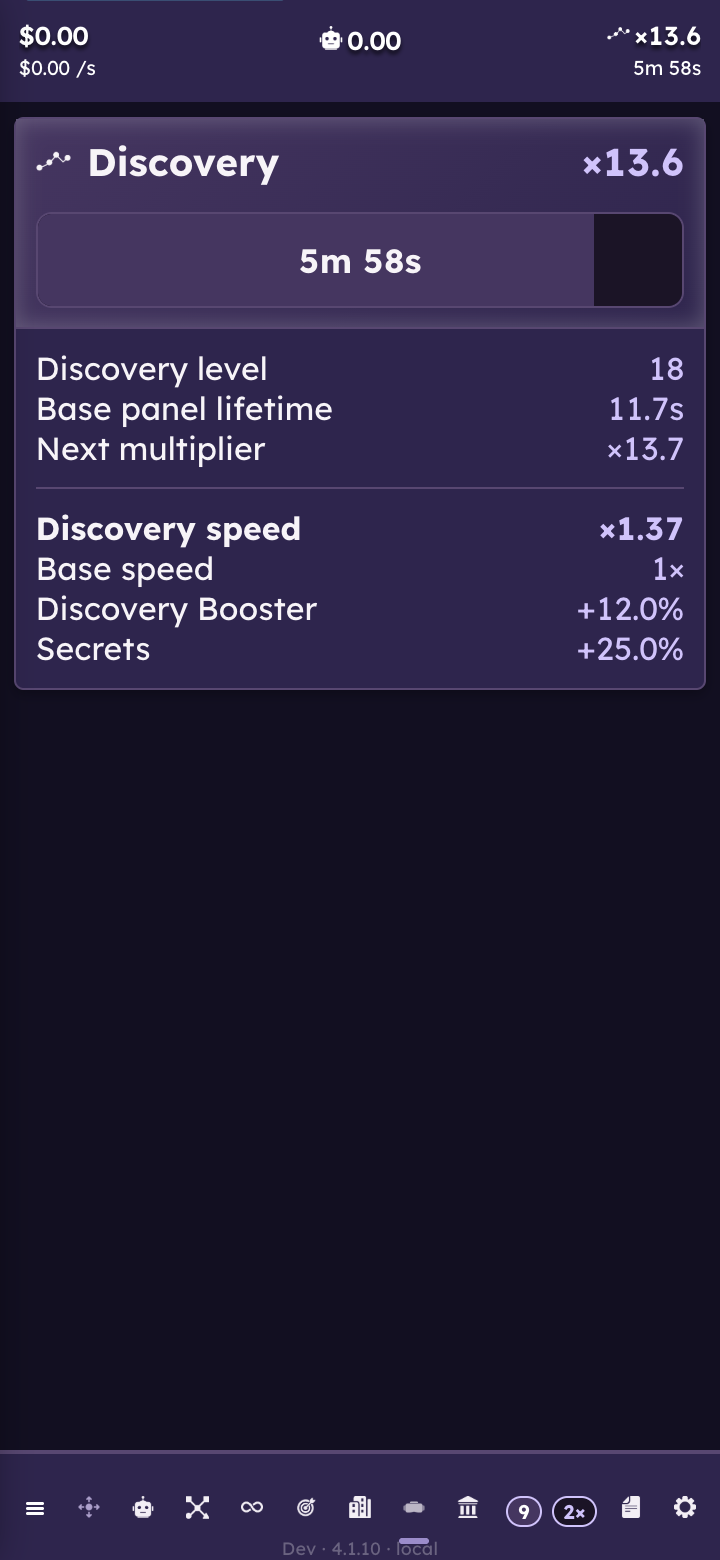
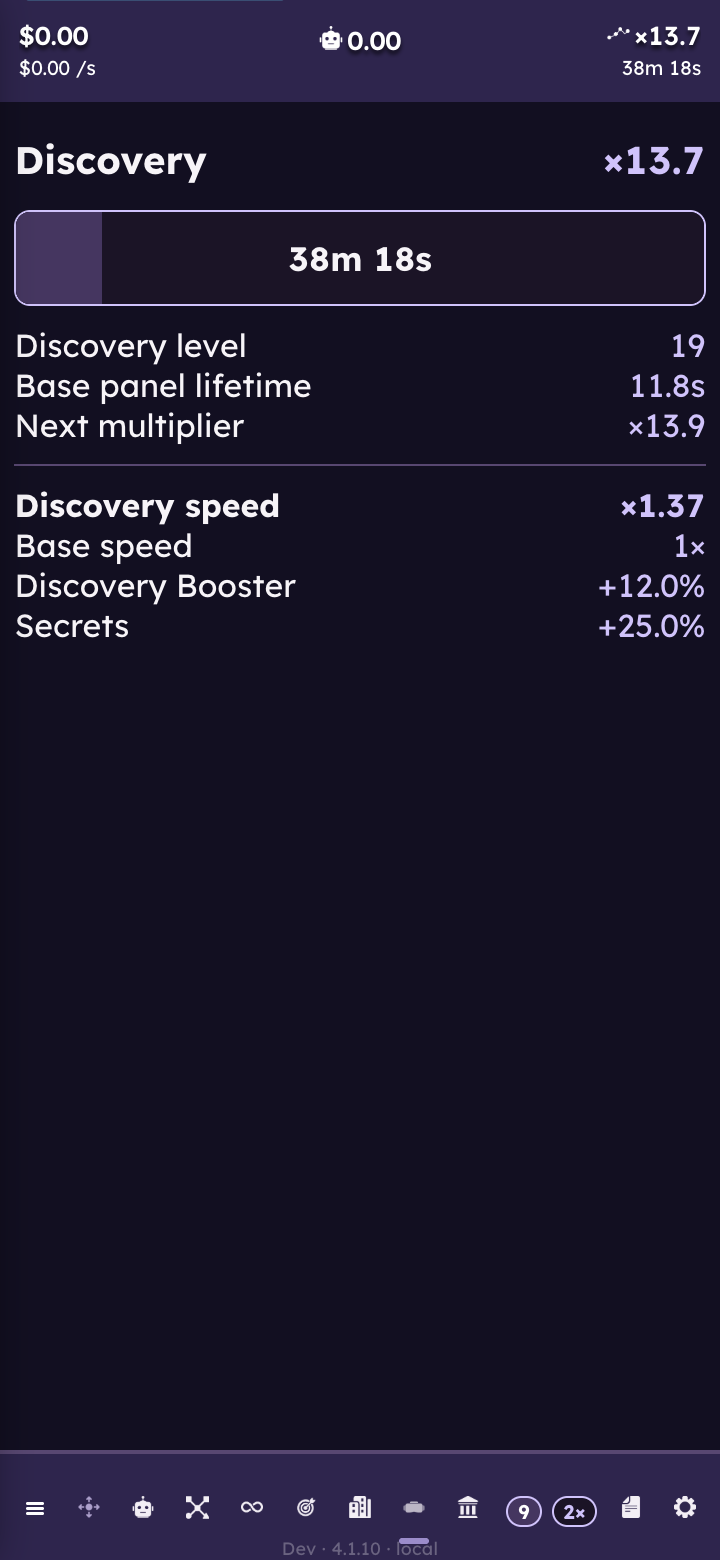
Simplify Discovery and Avocato presentation

diff --git a/src/ui/gameplay/quantum/AvocatoSurface.tsx b/src/ui/gameplay/quantum/AvocatoSurface.tsx
@@ -72,40 +72,45 @@ export function AvocatoSurface({ locale, unlocked, resources, spendable, derived
       </header>
 
       <div className="avocato-surface__content">
+        {unlocked ? (
+          <>
+            <dl className="avocato-total">
+              <div>
+                <dt>{intl.formatMessage(discovery.unlocked ? discoveryMessages.avocatoProduction : messages.totalBoost)}</dt>
+                <dd>{intl.formatMessage(messages.multiplier, { value: formatGameNumber(locale, derived.total) })}</dd>
+              </div>
+              {discovery.unlocked && <div>
+                <dt>{intl.formatMessage(discoveryMessages.speedSources)}</dt>
+                <dd>+{formatGameNumber(locale, discoveryGrowingBonus(derived.total - 1) * 100)}%</dd>
+              </div>}
+            </dl>
+
+            <div className="avocato-feed-grid">
+              {previews.feeds.map((preview) => (
+                <AvocatoFeedCard
+                  key={preview.source}
+                  locale={locale}
+                  preview={preview}
+                  invested={investedValue(resources, preview.source)}
+                  multiplier={multiplierValue(derived, preview.source)}
+                  resourceAvailable={spendableValue(spendable, preview.source)}
+                  routeAvailable={commandAvailability.feed}
+                  dispatchPlayer={dispatchPlayer}
+                />
+              ))}
+
+            </div>
+          </>
+        ) : null}
+
+        <OverflowCard locale={locale} resources={resources} preview={previews.overflow}
+          routeAvailable={commandAvailability.overflowReset} dispatchPlayer={dispatchPlayer} />
         <DiscoveryPurchases state={discovery} balance={resources.overflowPoints} available={discoveryAvailable} locale={locale}
           purchase={async (purchase: DiscoveryPurchase) => {
             const result = await dispatchPlayer({ kind: 'discovery.purchase', purchase })
             if (result.status === 'accepted' && purchase === 'unlock') onDiscoveryUnlocked?.()
             return result.status === 'accepted'
           }} />
-        {unlocked ? (
-          <>
-        <section className={`avocato-total${discovery.unlocked ? ' avocato-total--discovery' : ''}`} aria-label={intl.formatMessage(discovery.unlocked ? discoveryMessages.avocatoProduction : messages.totalBoost)}>
-          <strong>{intl.formatMessage(discovery.unlocked ? discoveryMessages.avocatoProduction : messages.totalBoost)}</strong>
-          <span>{intl.formatMessage(messages.multiplier, { value: formatGameNumber(locale, derived.total) })}</span>
-          {discovery.unlocked && <span>{intl.formatMessage(discoveryMessages.avocatoBonus, { value: formatGameNumber(locale, discoveryGrowingBonus(derived.total - 1) * 100) })}</span>}
-        </section>
-
-        <div className="avocato-feed-grid">
-          {previews.feeds.map((preview) => (
-            <AvocatoFeedCard
-              key={preview.source}
-              locale={locale}
-              preview={preview}
-              invested={investedValue(resources, preview.source)}
-              multiplier={multiplierValue(derived, preview.source)}
-              resourceAvailable={spendableValue(spendable, preview.source)}
-              routeAvailable={commandAvailability.feed}
-              dispatchPlayer={dispatchPlayer}
-            />
-          ))}
-
-        </div>
-          </>
-        ) : null}
-
-        <OverflowCard locale={locale} resources={resources} preview={previews.overflow}
-          routeAvailable={commandAvailability.overflowReset} dispatchPlayer={dispatchPlayer} />
 
       </div>
     </div>
@@ -147,7 +152,7 @@ function OverflowCard({ locale, resources, preview, routeAvailable, dispatchPlay
         <h2>{intl.formatMessage(messages.overflowPoints, { value: formatWholeGameNumber(locale, resources.overflowPoints) })}</h2>
         <p>{intl.formatMessage(preview.eligible ? messages.overflowReached : messages.overflowThreshold,
           { value: formatGameNumber(locale, preview.threshold) })}</p>
-        <p>{intl.formatMessage(messages.overflowDescription)}</p>
+        {confirming && <p>{intl.formatMessage(messages.overflowDescription)}</p>}
 
         {resources.overflowMultiplier > 0 && <p>{intl.formatMessage(messages.legacyOverflow,
           { value: formatGameNumber(locale, 1 + resources.overflowMultiplier) })}</p>}

diff --git a/src/ui/gameplay/quantum/quantum.css b/src/ui/gameplay/quantum/quantum.css
@@ -102,7 +102,6 @@
 .quantum-leap-card,
 .quantum-upgrade-card,
 .avocato-feed-card,
-.avocato-total,
 .avocato-meditation {
   border: 1px solid var(--theme-divider);
   border-radius: 0.3rem;
@@ -181,16 +180,19 @@
 .quantum-upgrade-card--complete { background: var(--quantum-panel); }
 .quantum-upgrade-card--mystery { min-block-size: var(--target-minimum); grid-template-columns: minmax(0, 1fr); background: #28223a; color: #c9bddb; }
 
+.avocato-surface { display: block; overflow-y: auto; overscroll-behavior: contain; scrollbar-width: none; }
+.avocato-surface::-webkit-scrollbar { display: none; }
 .avocato-surface__hero { grid-template-columns: 3.25rem minmax(0, 1fr); align-items: center; }
 .avocato-surface__hero .avocato-surface__portrait { inline-size: 3.25rem; block-size: 3.25rem; object-fit: contain; filter: drop-shadow(0 0.2rem 0.3rem rgb(0 0 0 / 30%)); }
 .avocato-surface__title,
 .avocato-surface__hero p { margin: 0; }
 .avocato-surface__title { font-size: var(--ui-text-page-title); font-weight: var(--font-weight-bold); line-height: 1.15; }
 .avocato-surface__hero p { margin-block-start: var(--ui-related-copy-gap); color: #f0eaf8; font-size: var(--ui-text-body); line-height: 1.25; }
-.avocato-surface__content { display: grid; align-content: start; gap: var(--ui-section-stack-gap); padding-block: var(--ui-route-inset); padding-inline: max(var(--ui-route-inset), var(--safe-area-left)) max(var(--ui-route-inset), var(--safe-area-right)); }
-.avocato-total { display: flex; align-items: baseline; justify-content: space-between; gap: var(--ui-card-gap); padding: var(--ui-panel-inset); background: linear-gradient(135deg, var(--theme-selected), var(--theme-panel)); }
-.avocato-total strong { font-size: var(--ui-text-card-title); }
-.avocato-total span { color: #00e1ff; font-family: var(--font-family-numeric); font-size: var(--ui-text-section-title); font-weight: var(--font-weight-bold); }
+.avocato-surface__content { overflow-y: visible; display: grid; align-content: start; gap: var(--ui-section-stack-gap); padding-block: var(--ui-route-inset); padding-inline: max(var(--ui-route-inset), var(--safe-area-left)) max(var(--ui-route-inset), var(--safe-area-right)); }
+.avocato-total { display: grid; gap: var(--ui-related-copy-gap); margin: 0; padding-block: var(--ui-related-copy-gap); }
+.avocato-total > div { display: flex; align-items: baseline; justify-content: space-between; gap: var(--ui-card-gap); }
+.avocato-total dt { min-inline-size: 0; font-size: var(--ui-text-card-title); }
+.avocato-total dd { margin: 0; color: #00e1ff; font-family: var(--font-family-numeric); font-size: var(--ui-text-card-title); font-weight: var(--font-weight-bold); white-space: nowrap; }
 .avocato-feed-grid { display: grid; grid-template-columns: minmax(0, 1fr); gap: var(--game-card-grid-gap); }
 .avocato-feed-card { display: grid; grid-template-columns: minmax(0, 1fr) var(--quantum-action-width); gap: var(--ui-card-gap); padding: var(--game-card-content-inset); }
 .avocato-feed-card h2,
@@ -254,8 +256,6 @@
     grid-template-columns: repeat(2, minmax(0, 1fr));
   }
 }
-.avocato-total--discovery { flex-wrap: wrap; }
-.avocato-total--discovery > span:last-child { flex-basis: 100%; }
 
 .discovery-purchase > p,
 .discovery-purchase > [role="group"],

diff --git a/src/ui/gameplay/discovery/DiscoverySurface.tsx b/src/ui/gameplay/discovery/DiscoverySurface.tsx
@@ -3,8 +3,7 @@ import { useIntl } from 'react-intl'
 import type { DiscoveryState } from '../../../game-state/types'
 import type { DiscoveryEffects } from '../../../simulation/discoveryEffects'
 import { DISCOVERY_TUNING } from '../../../simulation/discovery'
-import { Progress, InlineImageSymbol } from '../../components'
-import { navigationAssets } from '../shell/navigationAssets'
+import { Progress } from '../../components'
 import { discoverySkillNames } from './skillMessages'
 import { formatGameNumber, formatWholeGameNumber, formatGameDuration } from '../../i18n/formatters'
 import type { EnabledLocale } from '../../i18n/localeRegistry'
@@ -25,7 +24,7 @@ export function DiscoverySurface({ state, effects, locale, gameSpeed }: {
     <details className="discovery-card">
       <summary className="discovery-toggle" aria-label={`${intl.formatMessage(m.details)}: ${productionLabel}, ${time}`}>
         <span className="discovery-heading">
-          <span className="discovery-title"><InlineImageSymbol src={navigationAssets.discovery} label="" tint />{intl.formatMessage(m.name)}</span>
+          <span className="discovery-title">{intl.formatMessage(m.name)}</span>
           <strong aria-label={productionLabel}>×{formatGameNumber(locale, effects.multiplier)}</strong>
         </span>
         <Progress className="discovery-progress" label={intl.formatMessage(m.name)} valueText={time}

diff --git a/src/ui/gameplay/discovery/discovery.css b/src/ui/gameplay/discovery/discovery.css
@@ -3,12 +3,6 @@
   overflow-y: auto;
   color: var(--color-text-primary);
 }
-.discovery-card {
-  background: var(--theme-panel);
-  border: 1px solid var(--theme-divider);
-  border-radius: 0.3rem;
-  box-shadow: 0 0.16rem 0.35rem rgb(0 0 0 / 26%);
-}
 .discovery-heading {
   display: flex;
   align-items: center;
@@ -17,9 +11,8 @@
   margin-block-end: 0.8rem;
 }
 .discovery-title {
-  display: flex;
-  align-items: center;
-  gap: 0.5rem;
+  min-inline-size: 0;
+  overflow-wrap: anywhere;
   font-weight: var(--font-weight-bold);
   font-size: calc(1.2rem * var(--game-text-scale));
 }
@@ -64,9 +57,7 @@
 /* The header and bar form one native, keyboard-operable disclosure. */
 .discovery-toggle {
   display: block;
-  padding: var(--ui-panel-inset);
-  border-radius: inherit;
-  background: linear-gradient(135deg, var(--theme-selected), var(--theme-panel));
+  padding-block-start: var(--ui-panel-inset);
   cursor: pointer;
   list-style: none;
 }
@@ -77,8 +68,7 @@
 }
 .discovery-toggle:hover .discovery-progress progress { border-color: var(--theme-accent); }
 .discovery-details {
-  padding: var(--ui-panel-inset);
-  border-block-start: 1px solid var(--theme-divider);
+  padding-block: var(--ui-panel-inset);
 }
 .discovery-details dl { margin: 0; }
 .discovery-details .discovery-speed-sources {

diff --git a/src/ui/gameplay/quantum/AvocatoSurface.test.tsx b/src/ui/gameplay/quantum/AvocatoSurface.test.tsx
@@ -27,8 +27,9 @@ describe('Avocato Overflow confirmation', () => {
     let complete!: (value: Result) => void
     const dispatch = vi.fn<AvocatoSurfaceProps['dispatchPlayer']>(() => new Promise((resolve) => { complete = resolve }))
     setup(dispatch)
-    expect(screen.getByText(/Reality and Simulation progress/)).not.toBeNull()
+    expect(screen.queryByText(/Reality and Simulation progress/)).toBeNull()
     fireEvent.click(screen.getByRole('button', { name: 'Transcend for 1 point' }))
+    expect(screen.getByText(/Reality and Simulation progress/)).not.toBeNull()
     expect(dispatch).not.toHaveBeenCalled()
     fireEvent.click(screen.getByRole('button', { name: 'Cancel' }))
     expect(dispatch).not.toHaveBeenCalled()

diff --git a/docs/plans/discovery-prototype.md b/docs/plans/discovery-prototype.md
@@ -108,7 +108,8 @@ and reran that guard successfully before the final full suite.
 Matthew's final visual direction supersedes the original Research palette and
 info-button proposal. The default view shows **Discovery** opposite **×M**, with
 a prominent 48px progress bar and the time remaining centered inside it. The
-card uses Avocato's existing purple theme, inset, border, shadow and gradient.
+title, multiplier and bar sit directly on the page without an icon or outer panel,
+using Avocato's purple palette.
 The whole header/bar is the native disclosure control. No standalone info button
 or reset-explanation paragraph remains. Opening it reveals compact label/value
 rows for level, base lifetime, next multiplier and the actual speed breakdown.
@@ -447,3 +448,24 @@ Final native card screenshots: [iOS](../qa/discovery-prototype/ios.png),
 Expanded narrow browser evidence: [360px details](../qa/discovery-prototype/narrow-expanded.png).
 Independent follow-up review found no theme-scope or maintainability issues;
 its accessible-name finding was addressed without adding visible copy.
+
+### Unboxed Discovery and Avocato follow-up
+
+Removed the Discovery title icon and outer panel; retained the full-width bar,
+whole-header disclosure and accessible name. Avocato's total-production panel
+is now two aligned label/value rows above feeding. Discovery purchases follow
+the Transcendence balance/reset card. Reset consequences appear during confirmation,
+with the threshold/status retained in the collapsed card. Avocato's greeting
+scrolls with its page so enlarged text does not pin a large introduction above
+all controls.
+
+Browser visual QA: desktop and 360px collapsed/expanded Discovery, keyboard
+collapse, Avocato desktop/mobile, 130% text with no horizontal overflow, and
+scrolling the greeting away to reach both upgrades. Existing Avocato confirmation,
+cancellation, pending/save-failure and eligibility tests pass (3 tests); typecheck
+and lint pass. Native screenshots above show the preceding iteration; this small
+follow-up was verified in the browser, not rebuilt for native hosts.
+
+Evidence: [Avocato desktop](../qa/discovery-prototype/avocato-desktop.png),
+[360px](../qa/discovery-prototype/avocato-narrow.png),
+[130% text while scrolled](../qa/discovery-prototype/avocato-text130.png).
